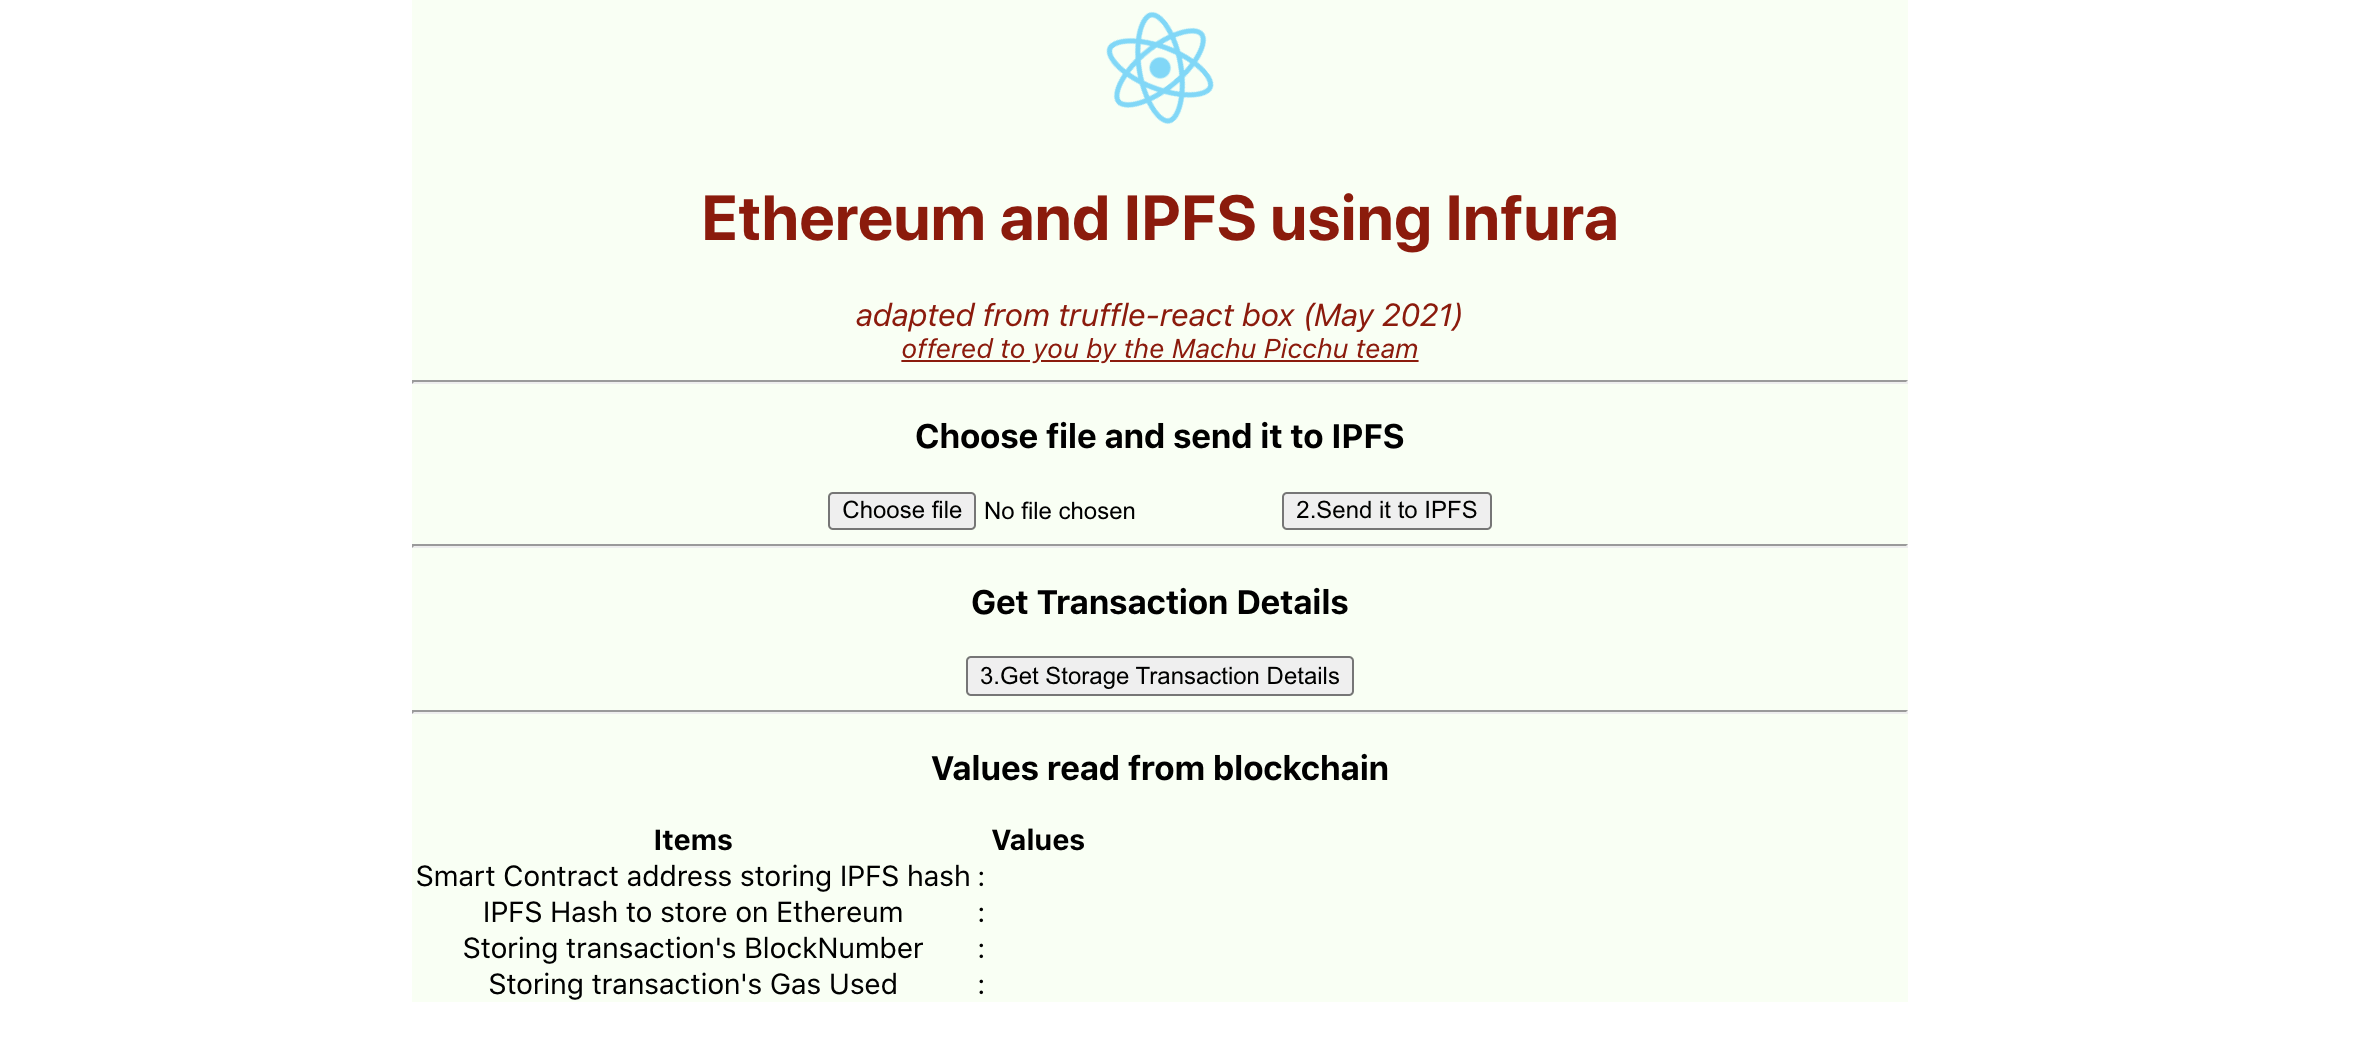
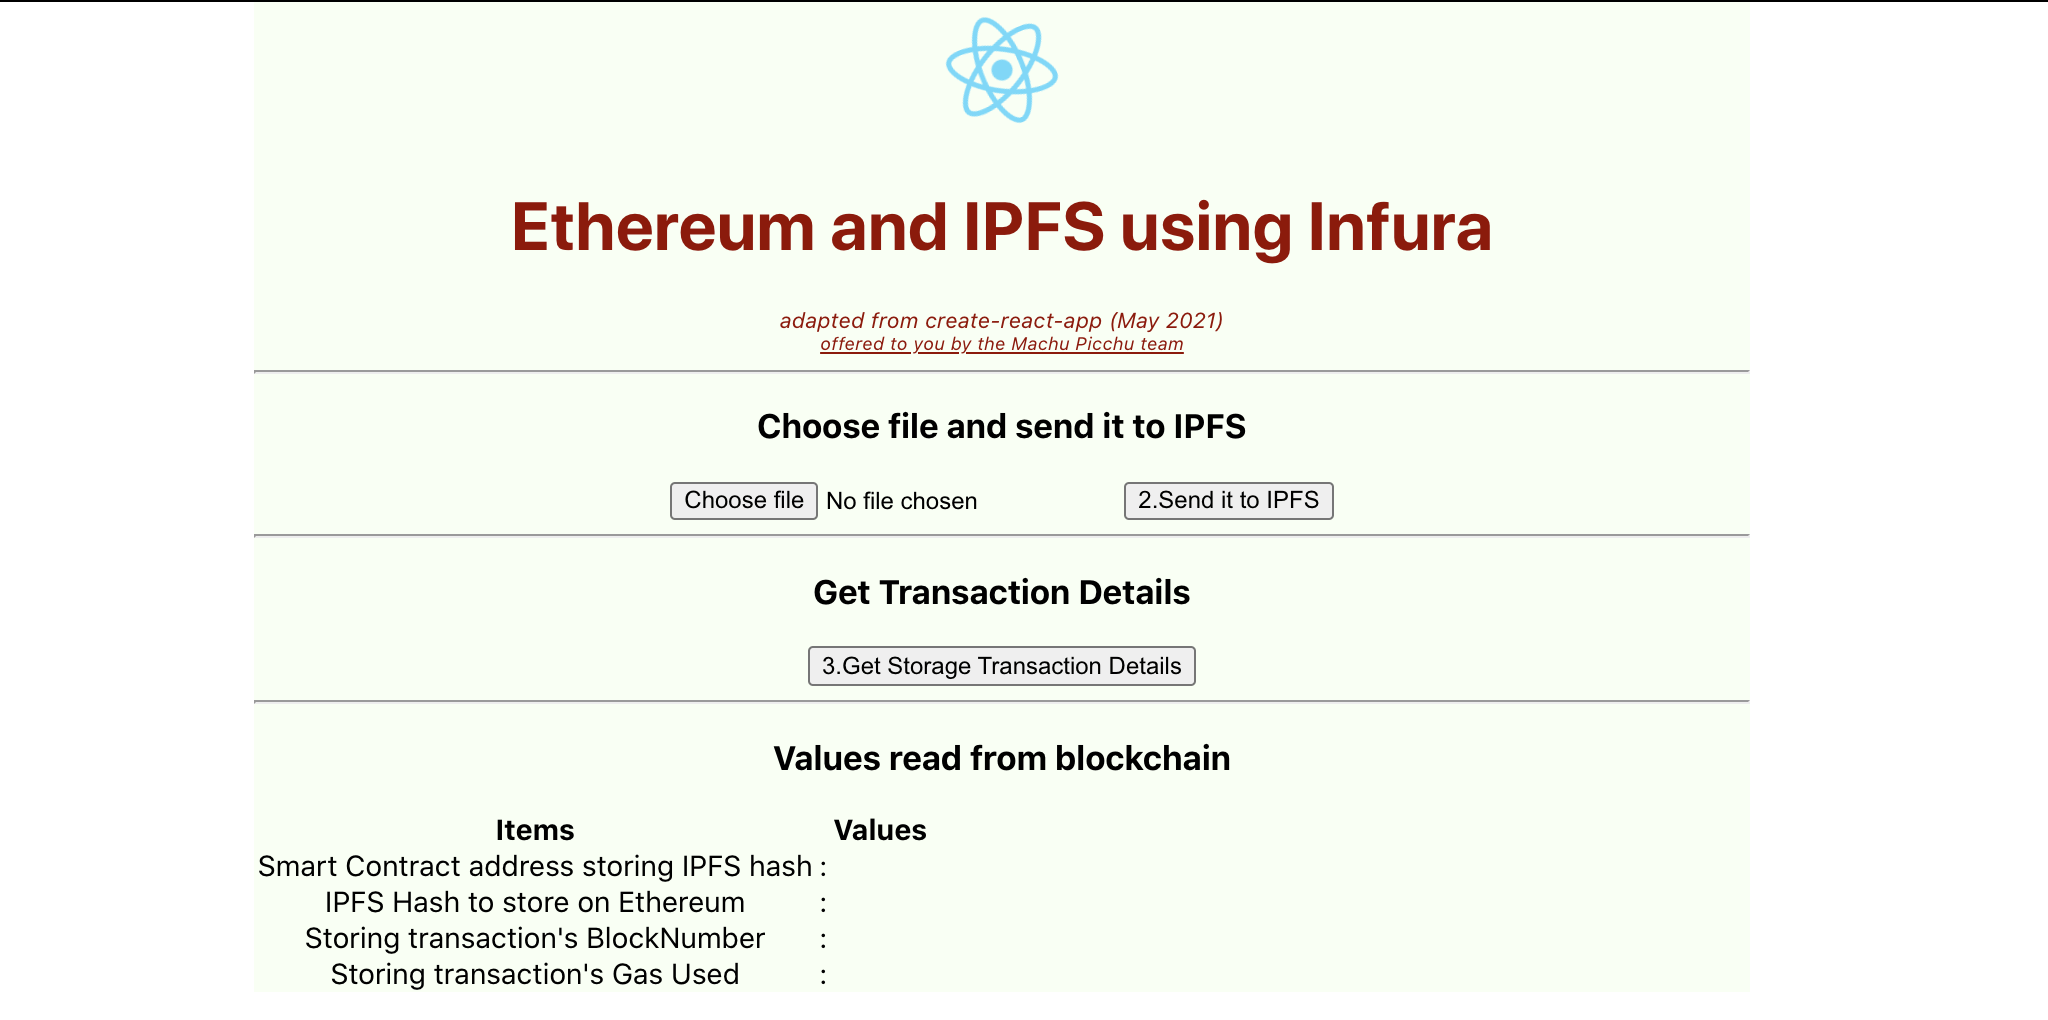
initialise dApp from React boilerplate

diff --git a/src/App.js b/src/App.js
@@ -90,7 +90,7 @@ function App() {
             <header className="App-header">
                 <img src={logo} alt="logo" className="App-logo" />
                 <h1 className="h1" >Ethereum and IPFS using Infura</h1>
-                <span  style={{color: '#980000', fontSize: 12}}><i>adapted from truffle-react box (May 2021)</i></span>
+                <span  style={{color: '#980000', fontSize: 12}}><i>adapted from create-react-app (May 2021)</i></span>
                 <a className="App-link" target="_blank" rel="noopener noreferrer"
                 href='https://kvutien-yes.medium.com/machu-picchu-why-should-humanitarian-organizations-be-interested-in-using-blockchain-360bbfcb88f5'>
                 <i>offered to you by the Machu Picchu team</i></a>

diff --git a/README.md b/README.md
@@ -9,7 +9,7 @@ It started from [this tutorial](https://www.freecodecamp.org/news/hands-on-get-s
 
 It is part of a series of articles intended to convince you, IT people working for humanitarians, that blockchain programming is not so daunting and can bring a lot of benefits. Join us in project *[Machu Picchu](https://kvutien-yes.medium.com/machu-picchu-how-the-blockchain-can-help-persons-in-need-8396820d13d1)*.
 
-This demo was bootstrapped with [Create React App](https://github.com/facebook/create-react-app). We added progressively packages to make it run. To use it, simply follow the setup instructions below. To reproduce the coding yourself, follow the tutorial.
+This demo was bootstrapped with [Create React App](https://github.com/facebook/create-react-app). We added progressively packages to make it run. To use it, simply follow the setup instructions below. To reproduce the coding yourself, follow the tutorial (in progress).
 
 ## Setup
 The setup instructions use the console utility (`Terminal.app`) from MacOS. The setup instructions are the same if you use Linux Ubuntu. 
